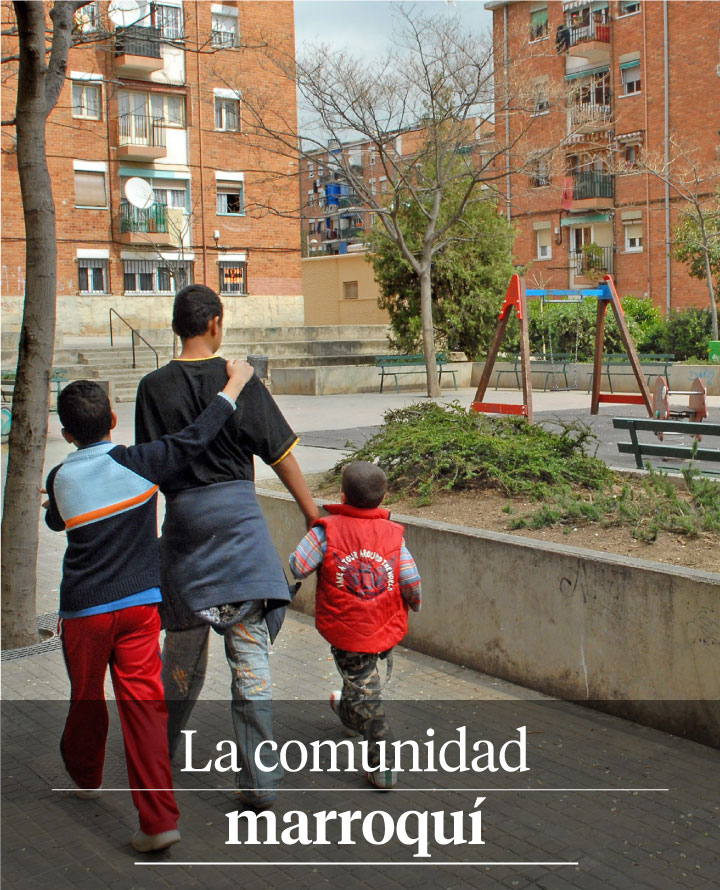
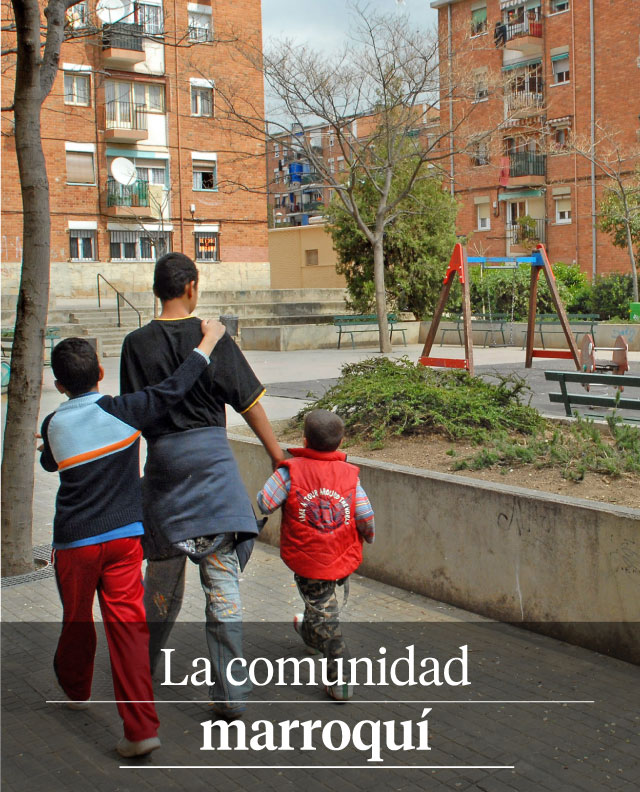
Add files via upload

diff --git a/IntroMarruecosMovil/Separadores.html b/IntroMarruecosMovil/Separadores.html
@@ -1,5 +1,5 @@
 
-<!-- Generated by ai2html v0.100.0 - 2020-12-04 21:42 -->
+<!-- Generated by ai2html v0.100.0 - 2020-12-05 01:29 -->
 <!-- ai file: Separadores.ai -->
 <style media="screen,print">
 	#g-Separadores-box ,
@@ -33,11 +33,11 @@
 <div id="g-Separadores-box" class="ai2html">
 
 	<!-- Artboard: IntroMarruecosMovil -->
-	<div id="g-Separadores-IntroMarruecosMovil" class="g-artboard" style="max-width: 360px;max-height: 445px" data-aspect-ratio="0.808" data-min-width="0">
-<div style="padding: 0 0 123.7495% 0;"></div>
+	<div id="g-Separadores-IntroMarruecosMovil" class="g-artboard" style="max-width: 320px;max-height: 396px" data-aspect-ratio="0.807" data-min-width="0">
+<div style="padding: 0 0 123.8889% 0;"></div>
 		<img id="g-Separadores-IntroMarruecosMovil-img" class="g-aiImg" alt="" src="Separadores-IntroMarruecosMovil.jpg"/>
 	</div>
 
 </div>
 
-<!-- End ai2html - 2020-12-04 21:42 -->
+<!-- End ai2html - 2020-12-05 01:29 -->
